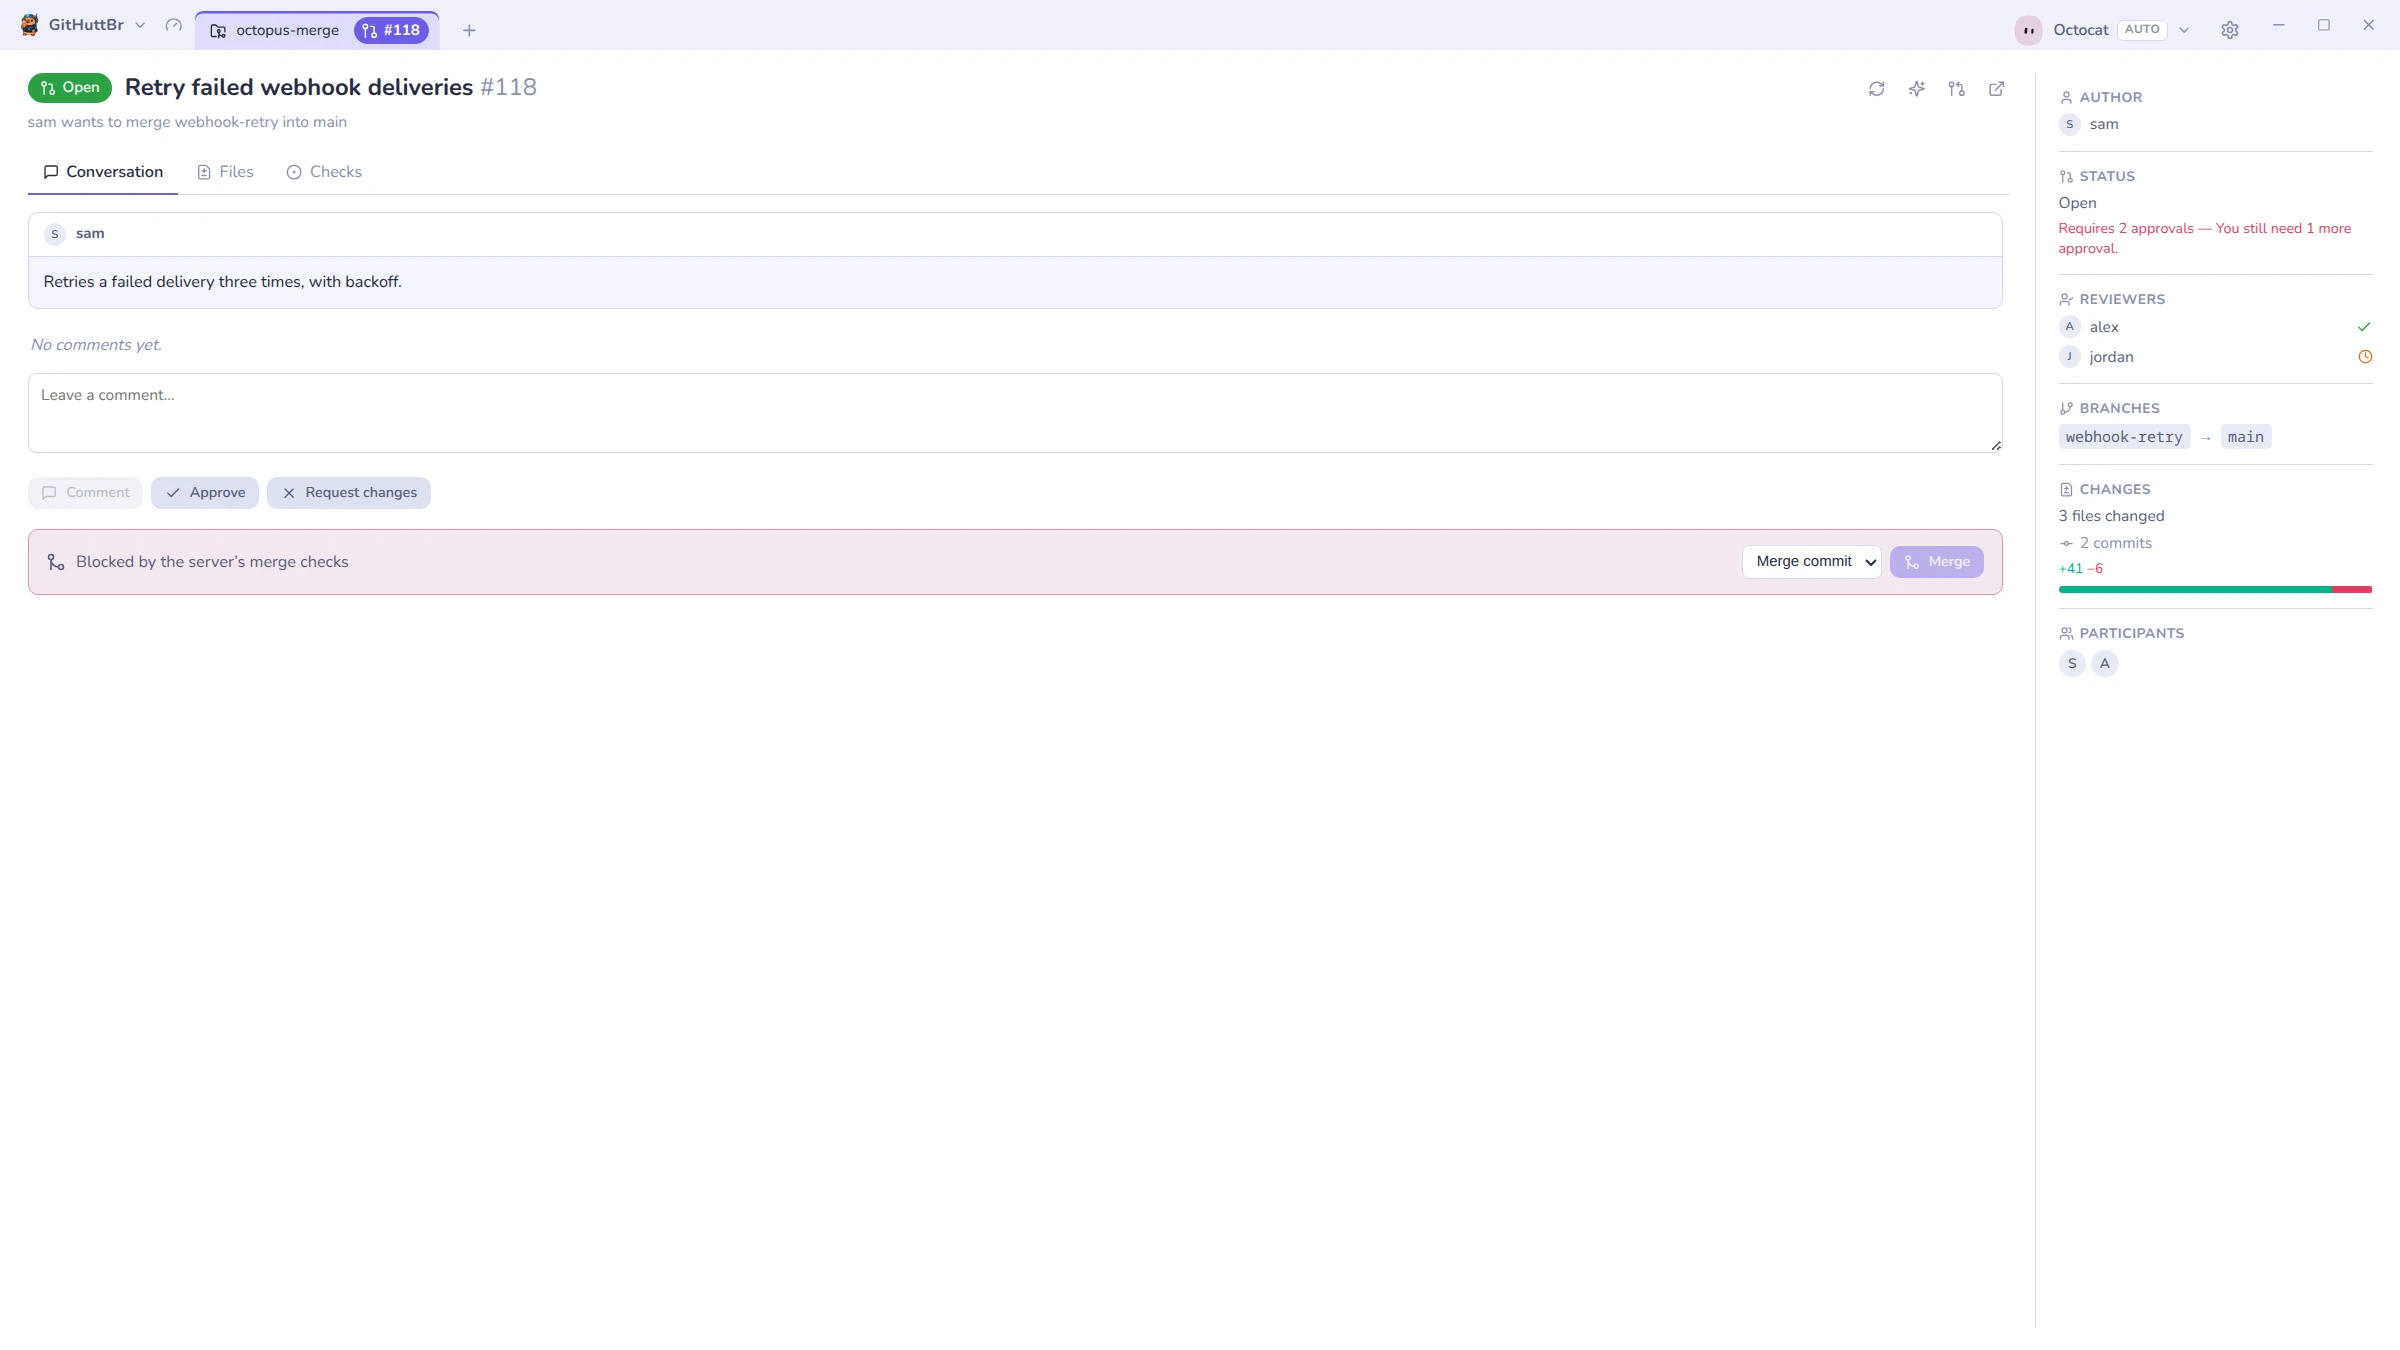
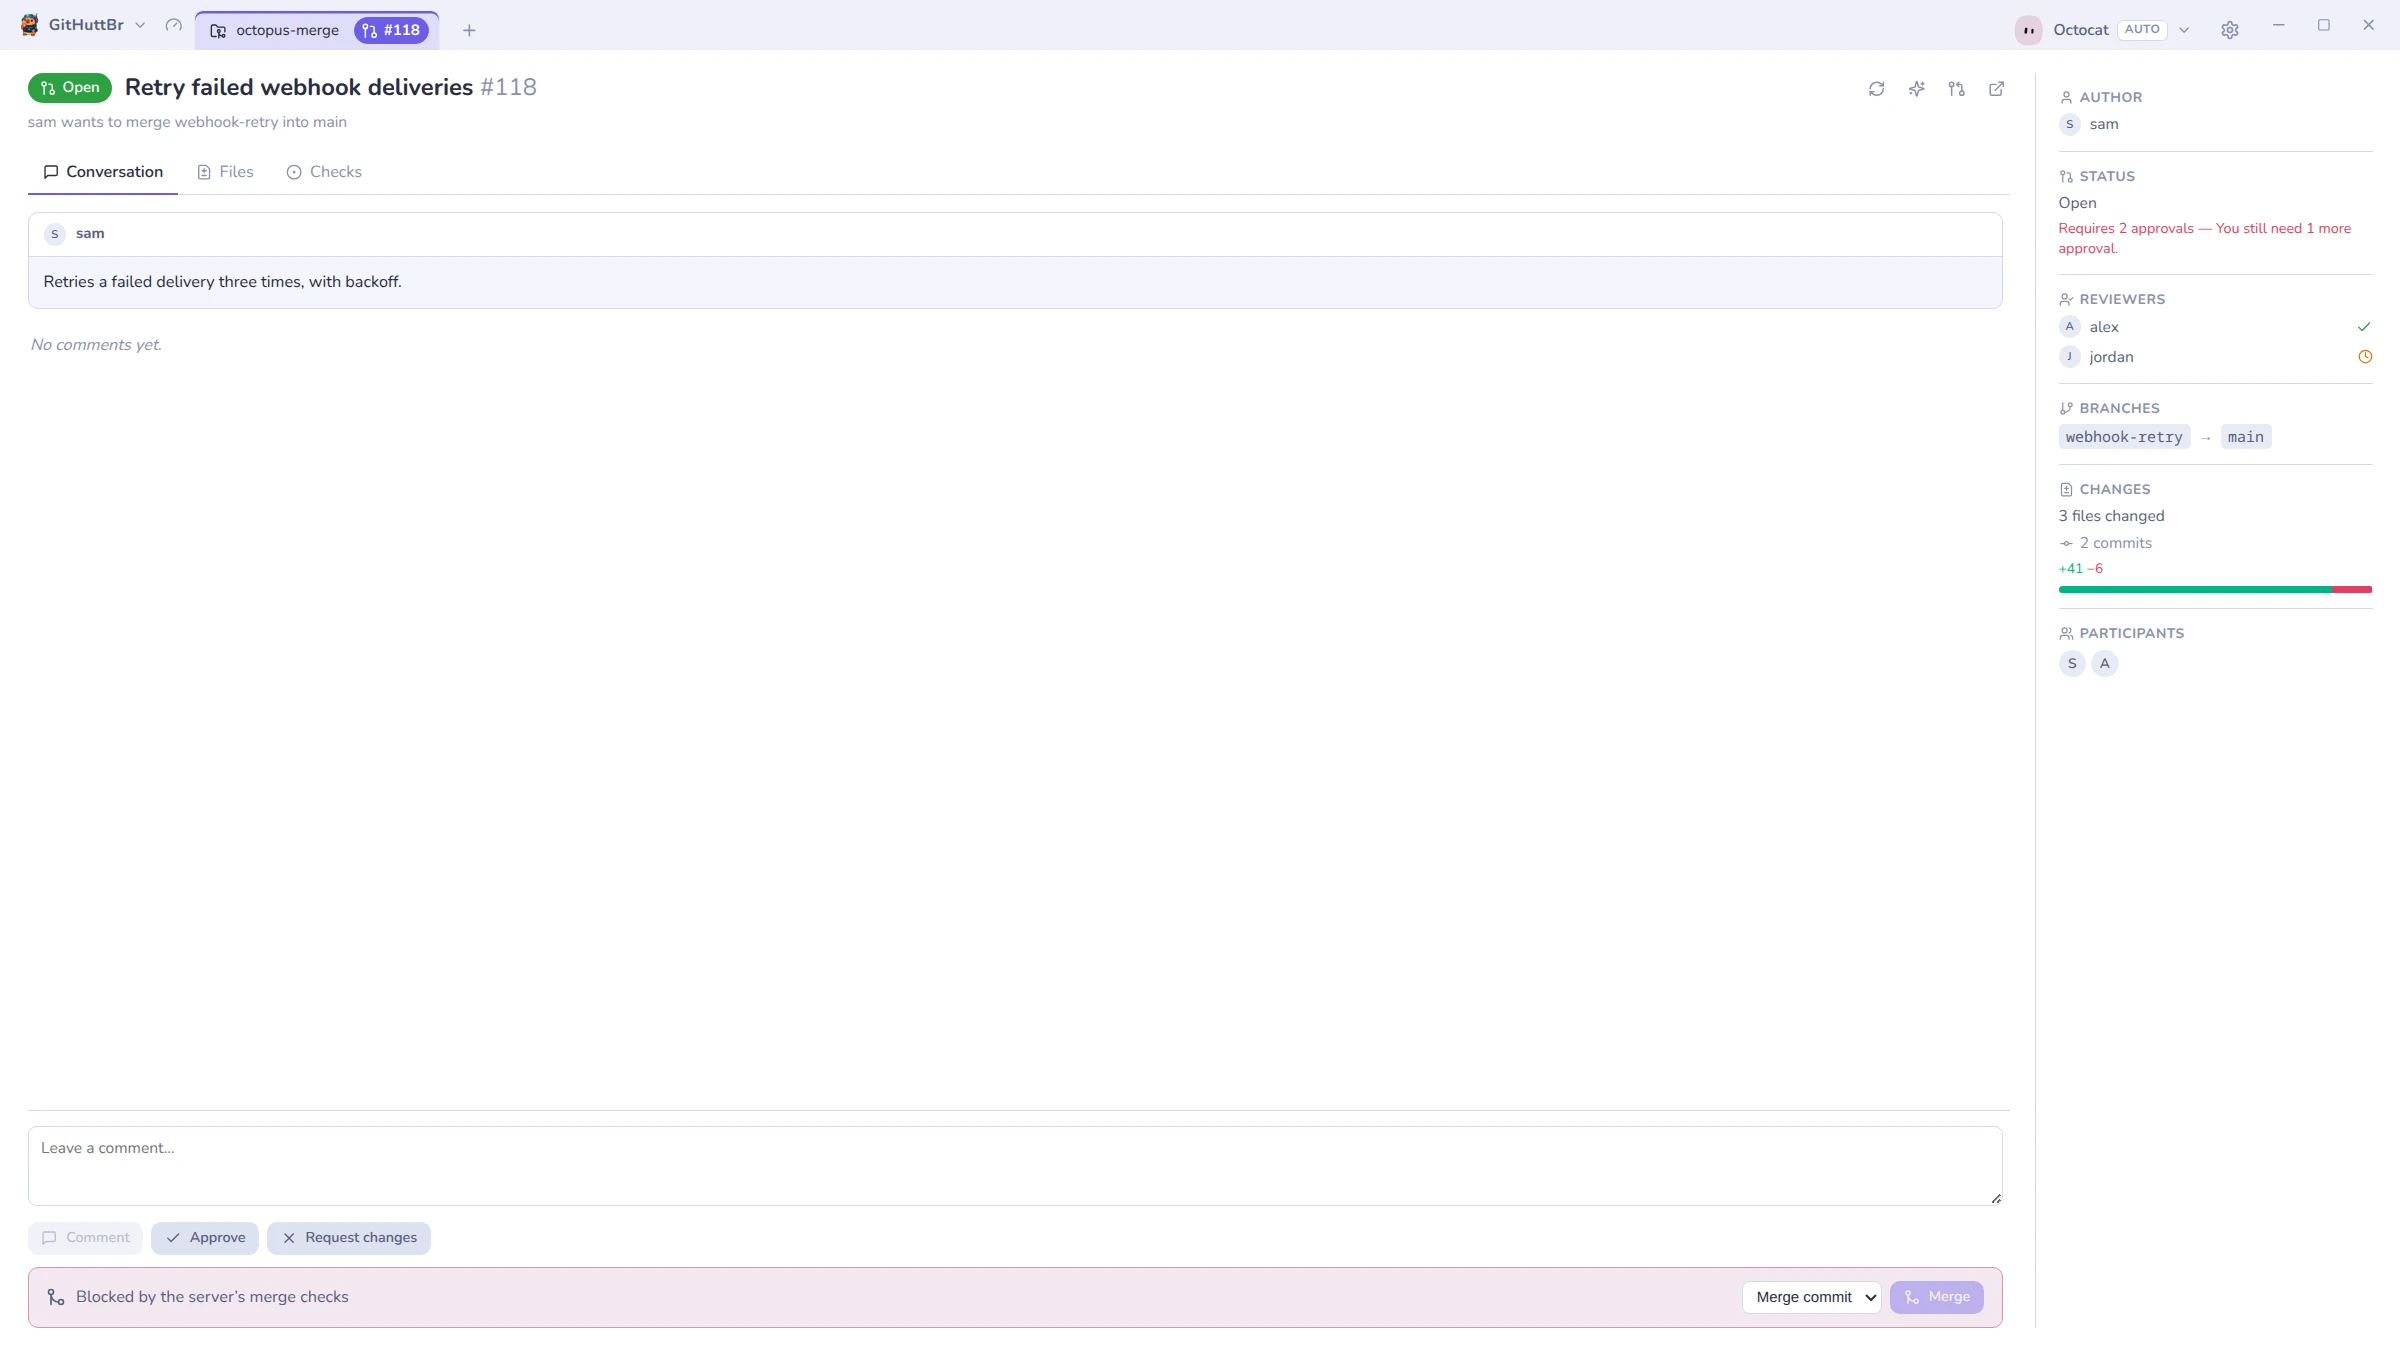
feat(pr): keep the review and merge actions fixed below the PR conversation
On a long pull request the comment box (comment / approve / request
changes) and the merge box sat after the whole conversation, so reaching
them meant scrolling to the end. They now live in a footer under the
scrolling conversation, the way the title stays fixed above it; only the
conversation scrolls. The comment box is capped at a third of the window
so dragging it taller cannot swallow the conversation.

diff --git a/src/renderer/src/components/PrDetailPage.tsx b/src/renderer/src/components/PrDetailPage.tsx
@@ -354,56 +354,6 @@ export function PrDetailPage({ page }: { page: PrPage }): React.JSX.Element {
                 </article>
               ))}
               {conversationCount === 0 && <p className="prp-muted prp-pad">{t('prDetail.noComments')}</p>}
-
-              <section className="prp-composer">
-                <textarea
-                  className="prd-input"
-                  placeholder={t('prDetail.commentPlaceholder')}
-                  value={comment}
-                  onChange={(e) => setComment(e.target.value)}
-                />
-                <div className="prp-composer-actions">
-                  <button className="btn ghost small" onClick={submitComment} disabled={busy || !comment.trim()}>
-                    <MessageSquare size={13} /> {t('prDetail.comment')}
-                  </button>
-                  <button className="btn ghost small prd-approve" onClick={() => review('APPROVE')} disabled={busy}>
-                    <Check size={13} /> {t('prDetail.approve')}
-                  </button>
-                  <button className="btn ghost small prd-reject" onClick={() => review('REQUEST_CHANGES')} disabled={busy}>
-                    <X size={13} /> {t('prDetail.requestChanges')}
-                  </button>
-                </div>
-              </section>
-
-              {canMerge && (
-                <section className={`prp-merge ${mergeBlocked ? 'is-blocked' : ''}`}>
-                  <div className="prp-merge-text">
-                    <GitMerge size={16} />
-                    <span>
-                      {pr.mergeable === false
-                        ? t('prDetail.notMergeable')
-                        : blockers.length
-                          ? t('prPage.mergeBlocked')
-                          : refused
-                          ? t('prPage.mergeRefusedShort')
-                          : pr.mergeable === true
-                          ? t('prPage.mergeable')
-                          : t('prPage.mergeUnknown')}
-                    </span>
-                  </div>
-                  <div className="prd-merge">
-                    <select value={mergeMethod} onChange={(e) => setMergeMethod(e.target.value as PrMergeMethod)}>
-                      <option value="merge">{t('prDetail.mergeCommit')}</option>
-                      <option value="squash">{t('prDetail.squash')}</option>
-                      {/* GitLab's merge API has no per-request rebase; the project setting decides. */}
-                      {provider !== 'gitlab' && <option value="rebase">{t('prDetail.rebase')}</option>}
-                    </select>
-                    <button className="btn primary small" onClick={merge} disabled={busy || mergeBlocked}>
-                      {busy ? <Loader2 size={13} className="spin" /> : <GitMerge size={13} />} {t('prDetail.merge')}
-                    </button>
-                  </div>
-                </section>
-              )}
             </>
           ) : section === 'files' ? (
             files === null ? (
@@ -457,6 +407,62 @@ export function PrDetailPage({ page }: { page: PrPage }): React.JSX.Element {
             </div>
           )}
         </div>
+
+        {/* Fixed under the scrolling conversation, like the title above it: a long
+            PR must not hide the review and merge actions at the bottom. */}
+        {!loading && !error && pr && section === 'conversation' && (
+          <footer className="prp-footer">
+            <section className="prp-composer">
+              <textarea
+                className="prd-input"
+                placeholder={t('prDetail.commentPlaceholder')}
+                value={comment}
+                onChange={(e) => setComment(e.target.value)}
+              />
+              <div className="prp-composer-actions">
+                <button className="btn ghost small" onClick={submitComment} disabled={busy || !comment.trim()}>
+                  <MessageSquare size={13} /> {t('prDetail.comment')}
+                </button>
+                <button className="btn ghost small prd-approve" onClick={() => review('APPROVE')} disabled={busy}>
+                  <Check size={13} /> {t('prDetail.approve')}
+                </button>
+                <button className="btn ghost small prd-reject" onClick={() => review('REQUEST_CHANGES')} disabled={busy}>
+                  <X size={13} /> {t('prDetail.requestChanges')}
+                </button>
+              </div>
+            </section>
+
+            {canMerge && (
+              <section className={`prp-merge ${mergeBlocked ? 'is-blocked' : ''}`}>
+                <div className="prp-merge-text">
+                  <GitMerge size={16} />
+                  <span>
+                    {pr.mergeable === false
+                      ? t('prDetail.notMergeable')
+                      : blockers.length
+                        ? t('prPage.mergeBlocked')
+                        : refused
+                        ? t('prPage.mergeRefusedShort')
+                        : pr.mergeable === true
+                        ? t('prPage.mergeable')
+                        : t('prPage.mergeUnknown')}
+                  </span>
+                </div>
+                <div className="prd-merge">
+                  <select value={mergeMethod} onChange={(e) => setMergeMethod(e.target.value as PrMergeMethod)}>
+                    <option value="merge">{t('prDetail.mergeCommit')}</option>
+                    <option value="squash">{t('prDetail.squash')}</option>
+                    {/* GitLab's merge API has no per-request rebase; the project setting decides. */}
+                    {provider !== 'gitlab' && <option value="rebase">{t('prDetail.rebase')}</option>}
+                  </select>
+                  <button className="btn primary small" onClick={merge} disabled={busy || mergeBlocked}>
+                    {busy ? <Loader2 size={13} className="spin" /> : <GitMerge size={13} />} {t('prDetail.merge')}
+                  </button>
+                </div>
+              </section>
+            )}
+          </footer>
+        )}
       </div>
 
       <aside className="prp-side">

diff --git a/src/renderer/src/styles.css b/src/renderer/src/styles.css
@@ -18511,11 +18511,15 @@ mark.diff-find-hit.current { background: #ff9632; color: #10121a; }
 .prp-muted { color: var(--text-3); font-style: italic; }
 .prp-pad { padding: 8px 2px; }
 
-.prp-composer { margin-top: 6px; }
-.prp-composer-actions { display: flex; gap: 6px; margin-top: 6px; flex-wrap: wrap; }
+/* Review and merge stay in view below the scrolling conversation. The comment
+   box can still be dragged taller, but never past a third of the window, so
+   the conversation it answers keeps the room. */
+.prp-footer { flex: none; padding: 12px 6px 0 0; border-top: 1px solid var(--border); }
+.prp-footer .prd-input { max-height: 33vh; margin-bottom: 0; }
+.prp-composer-actions { display: flex; gap: 6px; margin-top: 8px; flex-wrap: wrap; }
 .prp-merge {
   display: flex; align-items: center; justify-content: space-between; gap: 12px; flex-wrap: wrap;
-  margin-top: 16px; padding: 12px 14px; border-radius: 8px;
+  margin-top: 10px; padding: 10px 14px; border-radius: 8px;
   border: 1px solid color-mix(in srgb, var(--ok, #2ea043) 45%, var(--border));
   background: color-mix(in srgb, var(--ok, #2ea043) 8%, var(--bg-2));
 }

diff --git a/docs/help/pt-BR/hosting.md b/docs/help/pt-BR/hosting.md
@@ -86,7 +86,7 @@ A coluna principal tem três seções:
 
 | Seção | O que tem |
 |---|---|
-| **Conversa** | A descrição, os comentários e as threads de revisão inline (`file:line`, com respostas). Depois a caixa de comentário com comentar / aprovar / pedir mudanças, e a caixa de merge (merge, squash ou rebase) |
+| **Conversa** | A descrição, os comentários e as threads de revisão inline (`file:line`, com respostas). Só a conversa rola: a caixa de comentário com comentar / aprovar / pedir mudanças e a caixa de merge (merge, squash ou rebase) ficam fixas embaixo, então um pull request longo nunca as tira de alcance |
 | **Arquivos** | Cada arquivo alterado e, ao lado da lista, o diff do selecionado, com destaque de sintaxe e mudança por palavra (arquivos com cara de segredo mascarados quando a opção está ligada). Um checklist ✓ de "visto" lembra o seu progresso. Um arquivo sem diff enviado pelo host (binário, ou grande demais) tem link para vê-lo no host |
 | **Checks** | Execuções de CI (GitHub) ou jobs de pipeline (GitLab), com aprovado/falhou/pendente e links para os logs |
 

diff --git a/docs/help/hosting.md b/docs/help/hosting.md
@@ -250,7 +250,7 @@ The main column has three sections:
 
 | Section | What it holds |
 |---|---|
-| **Conversation** | The description, comments and inline review threads (`file:line`, with replies). Then the comment box with comment / approve / request changes, and the merge box (merge, squash or rebase) |
+| **Conversation** | The description, comments and inline review threads (`file:line`, with replies). Only the conversation scrolls: the comment box with comment / approve / request changes, and the merge box (merge, squash or rebase), stay fixed at the bottom, so a long pull request never pushes them out of reach |
 | **Files** | Every changed file, and the selected one's diff beside the list, with syntax highlighting and word-level changes (secret-looking files masked when that setting is on). A ✓ "viewed" checklist remembers your progress. A file the host sends no diff for (a binary, or one too large) links to it on the host |
 | **Checks** | CI check-runs (GitHub) or pipeline jobs (GitLab), with pass/fail/pending and links to the logs |
 
